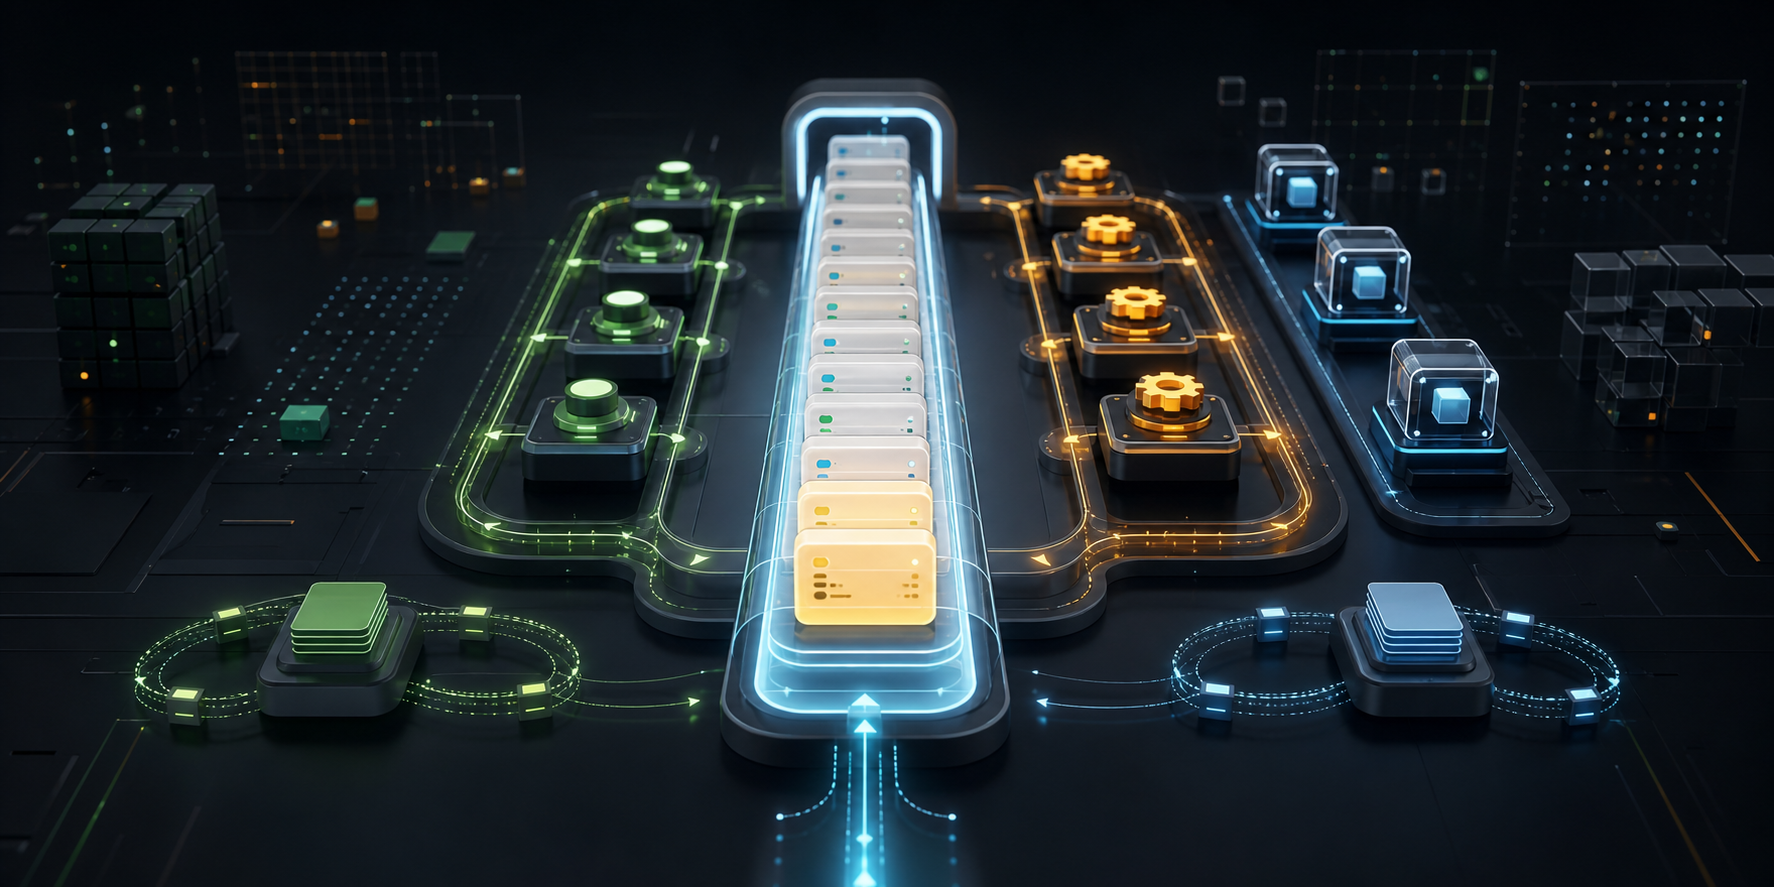
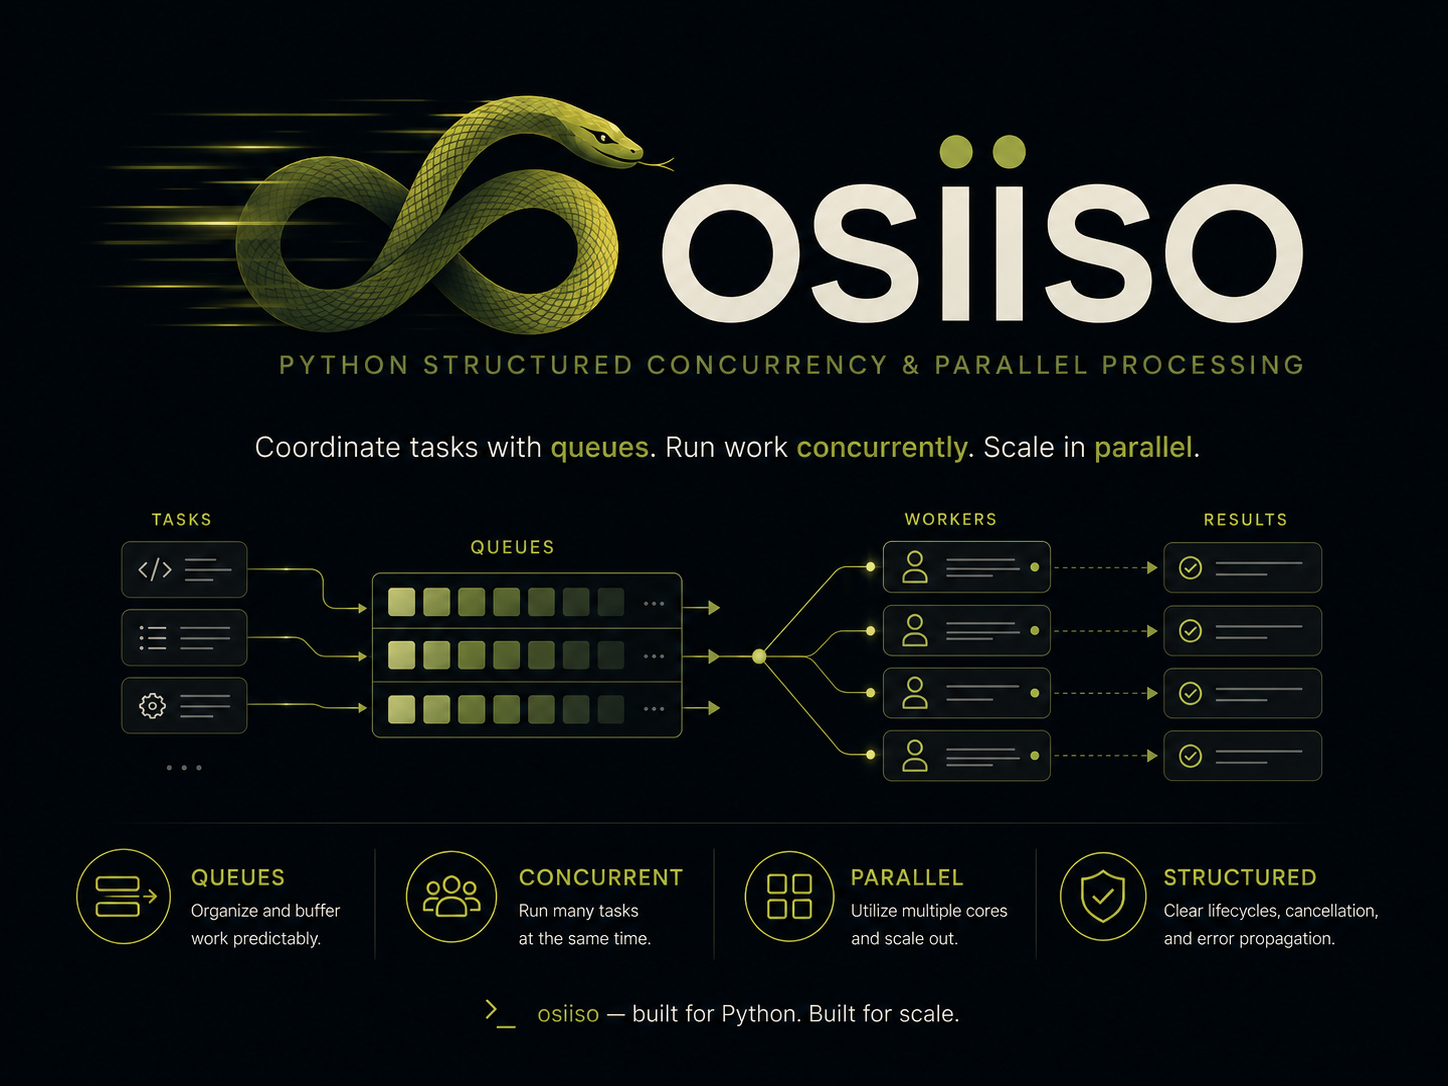
setup pages action workflow

diff --git a/docs/index.md b/docs/index.md
@@ -1,4 +1,4 @@
-# osiiso osiiso
+# osiiso
 
 `osiiso` is a small Python package for structured task queues across three
 execution backends: